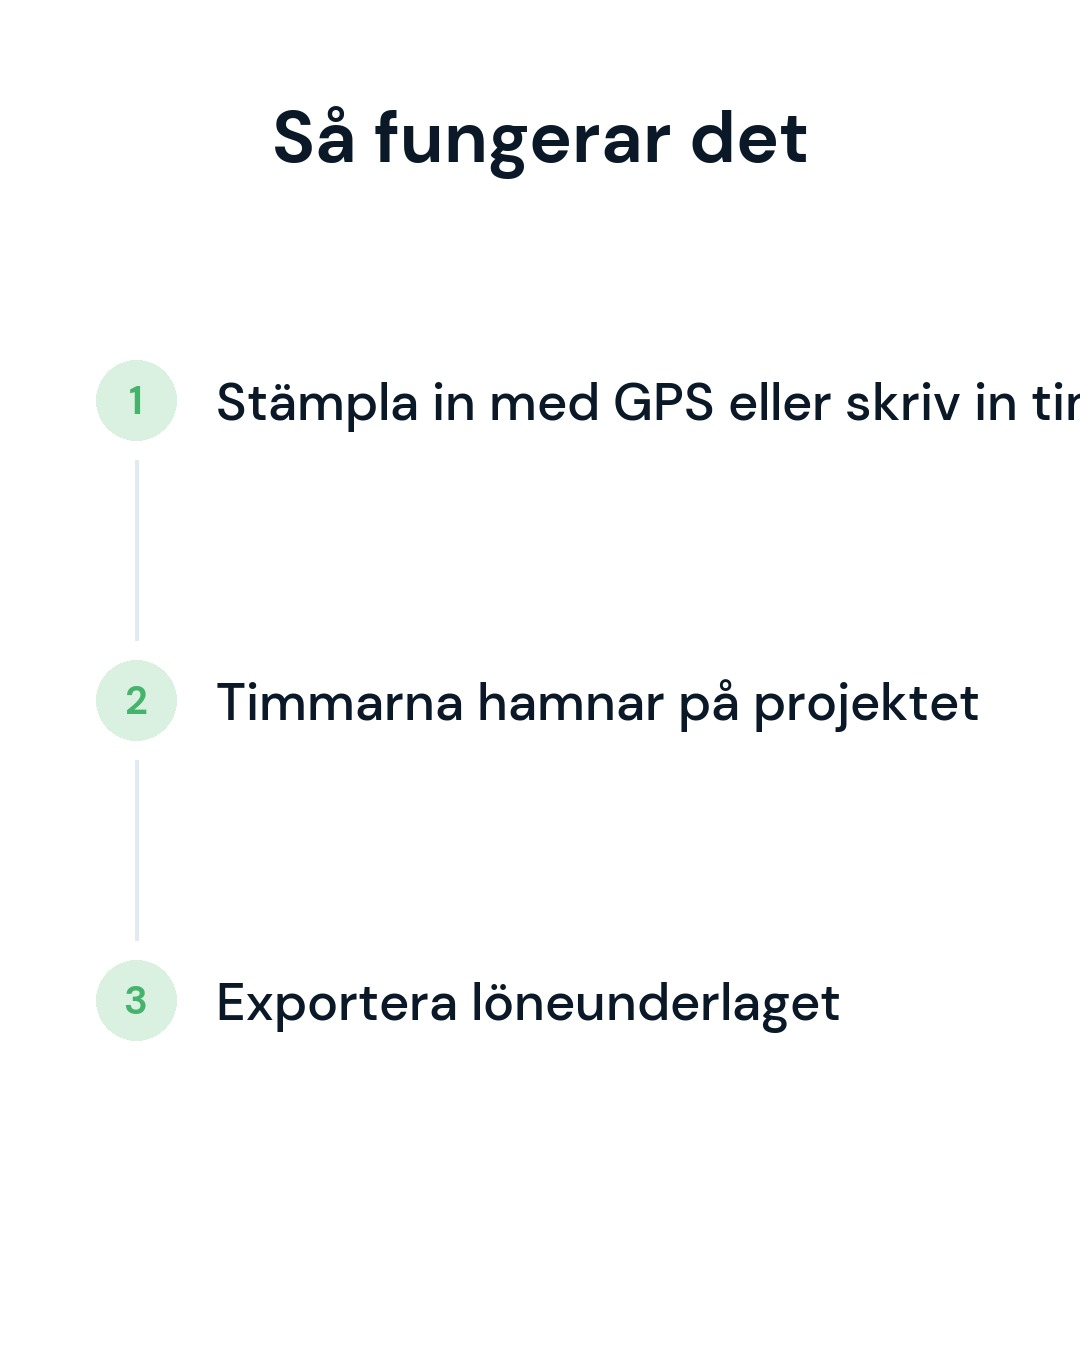
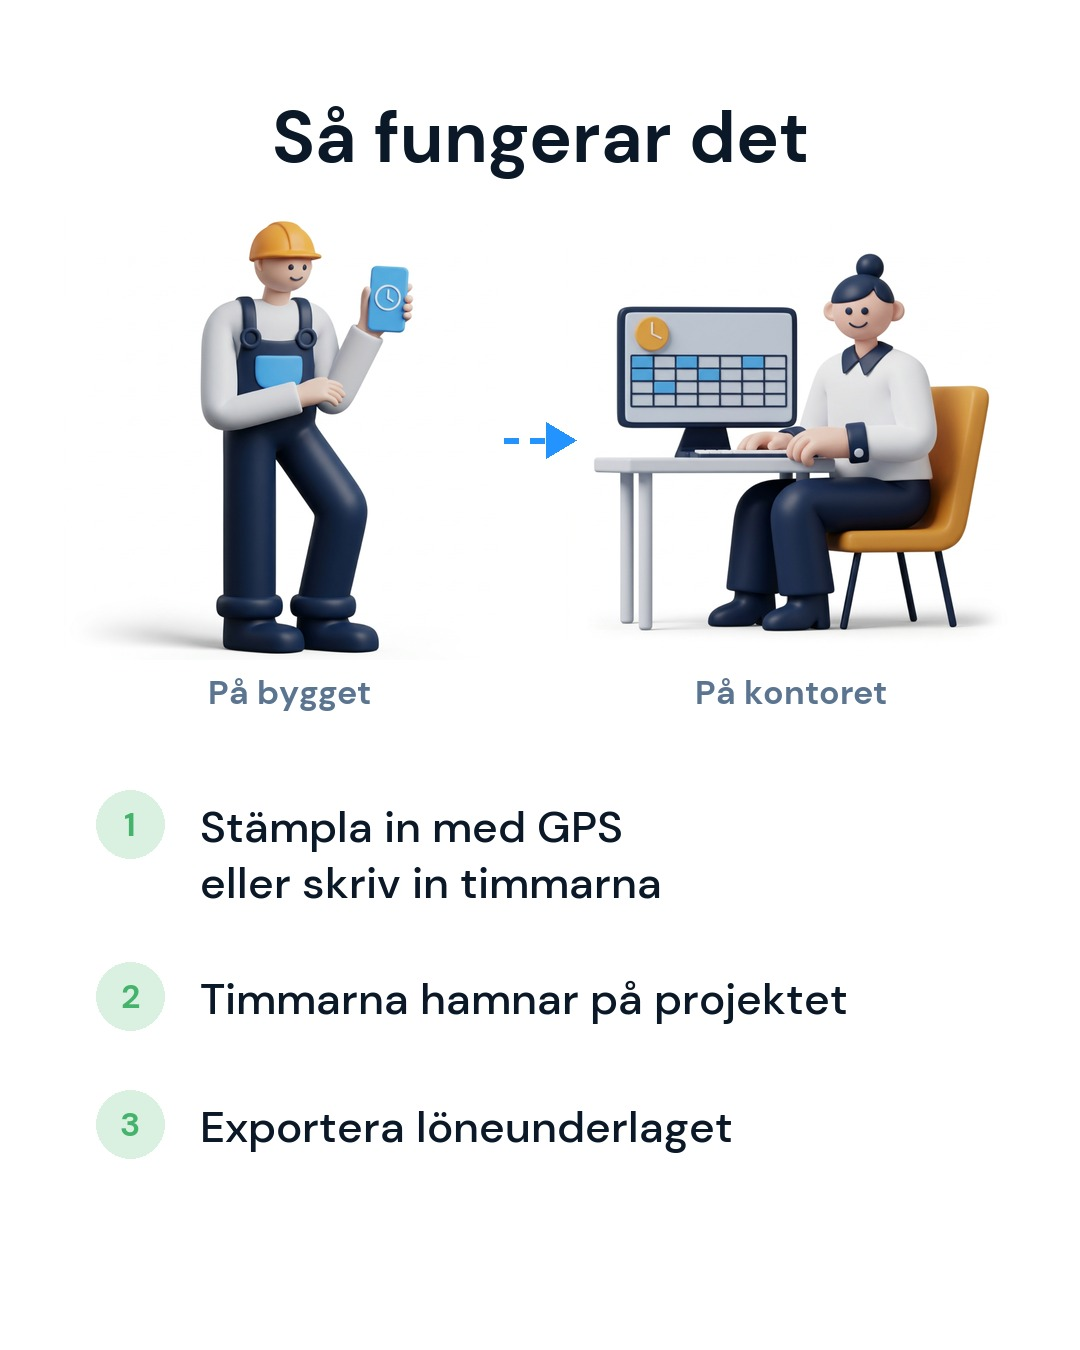
feat(smm): carousel slide 2 shows site → office link (S27)
Claude-Session: https://claude.ai/code/session_015ffAXEftTHPL4eNP1AivUn

diff --git a/design-assets/social/posts/make_3d.py b/design-assets/social/posts/make_3d.py
@@ -142,20 +142,42 @@ def slide_cover(lines, art, size):
     return f, d
 
 
-def slide_steps(items, art):
+FLOW = {  # slide 2: who enters it on site → where it shows up in the office
+    "01-tid": ("tid-2.png", "tid-3.png"),
+}
+
+
+def arrow(d, x0, x1, y):
+    # dashed blue arrow, site → office
+    for x in range(x0, x1 - 30, 26):
+        d.line((x, y, min(x + 14, x1 - 30), y), fill=BLUE, width=6)
+    d.polygon([(x1, y), (x1 - 30, y - 18), (x1 - 30, y + 18)], fill=BLUE)
+
+
+def slide_steps(items, pid):
     f = Image.new("RGBA", (W, H), (255, 255, 255, 255))
     d = ImageDraw.Draw(f)
     t = "Så fungerar det"
     d.text(((W - d.textlength(t, font=font(72))) / 2, TOP), t, font=font(72), fill=NAVY)
-    ft, fn = font(52, "Medium"), font(40, "Bold")
+    site, office = FLOW[pid]
+    side = 450
+    for art, x in ((site, 64), (office, W - 64 - side)):
+        im = Image.open(ART / art).convert("RGBA").resize((side, side), Image.LANCZOS)
+        f.alpha_composite(im, (x, 210))
+    fl = font(34, "Bold")
+    for label, x in (("På bygget", 64), ("På kontoret", W - 64 - side)):
+        d.text((x + (side - d.textlength(label, font=fl)) / 2, 670), label, font=fl, fill=GREY)
+    arrow(d, 64 + side - 10, W - 64 - side + 10, 440)
+    ft, fn = font(44, "Medium"), font(34, "Bold")
+    y = 790
     for i, text in enumerate(items):
-        y = 360 + i * 300
-        d.ellipse((96, y, 176, y + 80), fill=(218, 240, 225))
+        d.ellipse((96, y, 164, y + 68), fill=(218, 240, 225))
         n = str(i + 1)
-        d.text((136 - d.textlength(n, font=fn) / 2, y + 14), n, font=fn, fill=(69, 179, 107))
-        d.text((216, y + 8), text, font=ft, fill=NAVY)
-        if i < 2:
-            d.line((136, y + 100, 136, y + 280), fill=(225, 234, 243), width=4)
+        d.text((130 - d.textlength(n, font=fn) / 2, y + 12), n, font=fn, fill=(69, 179, 107))
+        lines = wrap(d, text, ft, W - 200 - 96)
+        for j, line in enumerate(lines):
+            d.text((200, y + 8 + j * 56), line, font=ft, fill=NAVY)
+        y += max(68, 56 * len(lines)) + 60
     return f, d
 
 
@@ -209,7 +231,7 @@ def carousel(pid):
     _, lines, art, items, badges = p
     size = headline_size()
     out = []
-    slides = (slide_cover(lines, art, size), slide_steps(items, art), slide_shot(SHOTS[pid], "Så ser det ut i appen"))
+    slides = (slide_cover(lines, art, size), slide_steps(items, pid), slide_shot(SHOTS[pid], "Så ser det ut i appen"))
     for i, (f, d) in enumerate(slides):
         if i == 0:  # footer only on the first picture (owner 2026-10-31)
             footer(f, d, badges)

diff --git a/design-assets/social/DESIGN-SYSTEM-SMM.md b/design-assets/social/DESIGN-SYSTEM-SMM.md
@@ -76,7 +76,7 @@
 
 **S26 · 2026-10-31 · Посты о функциях: под 3D — «как это работает», без цены.** Под 3D-картинкой 3 коротких шага (зелёные шарики 1-2-3, как в презентациях функций): что делает человек → что делает система → что получаешь. Человек, который видит функцию впервые, понимает логику. Цены на картинке нет, в тексте поста тоже нет (только «14 dagar gratis, ingen bindningstid»). Шаг — 1–2 строки, перенос сбалансированный, без одиночного слова. Отменяет S17/S18 для постов о функциях; цена остаётся на обложках и закрепе. Код: `posts/make_3d.py` (`steps`, `wrap`). Почему: владелец: «не надо везде цены ставить, расскажи подробнее про функцию, какая логика».
 
-**S27 · 2026-10-31 · Пост о функции = карусель из 3 картинок.** 1) 3D + заголовок-выгода (подпись byggexp.se + значки сторов — только здесь); 2) «Så fungerar det» — 3 шага крупно, зелёные шарики; 3) «Så ser det ut i appen» — настоящий экран в настоящем iPhone из презентаций (`byggexp-admin/docs/presentations/design-system/assets/screens/foto-phone.png`, титановая рамка, кнопки, Dynamic Island), не нарисованная рамка. Заголовки на всех слайдах выше (y 90). Скриншот — свежий из симулятора, во весь экран, без пустого низа, и показывает все поля, которые человек заполняет (часы, övertid, OB, restid, bil, traktamente, фото, kvitton), а не обрезанный кусок. Экран всегда с верха: вкладки и неделя видны, низ может обрезаться (владелец: «пускай верхняя часть видна»). Если у функции два способа — оба: тидрапорт = «GPS eller manuellt» в заголовке и шагах, на 3-й картинке два телефона с подписями «GPS» / «Manuellt». Код: `posts/make_3d.py` (`carousel`, `SHOTS`, скрины в `~/Desktop/SMM/app-shots/`). Почему: владелец: «одним постом 2–3 картинки», «заголовок выше», «телефон реальный», «подпись только на 1-й», «у нас не только GPS — мануальный ввод обязательно», «больше полей, где человек часы вводит».
+**S27 · 2026-10-31 · Пост о функции = карусель из 3 картинок.** 1) 3D + заголовок-выгода (подпись byggexp.se + значки сторов — только здесь); 2) «Så fungerar det» — сверху связь «På bygget → På kontoret»: 3D рабочего с телефоном, синяя пунктирная стрелка, 3D женщины за компьютером (видно: человек ввёл — в компьютере уже есть); ниже 3 шага, длинный шаг переносится, не вылезает за край (`FLOW` в make_3d.py); 3) «Så ser det ut i appen» — настоящий экран в настоящем iPhone из презентаций (`byggexp-admin/docs/presentations/design-system/assets/screens/foto-phone.png`, титановая рамка, кнопки, Dynamic Island), не нарисованная рамка. Заголовки на всех слайдах выше (y 90). Скриншот — свежий из симулятора, во весь экран, без пустого низа, и показывает все поля, которые человек заполняет (часы, övertid, OB, restid, bil, traktamente, фото, kvitton), а не обрезанный кусок. Экран всегда с верха: вкладки и неделя видны, низ может обрезаться (владелец: «пускай верхняя часть видна»). Если у функции два способа — оба: тидрапорт = «GPS eller manuellt» в заголовке и шагах, на 3-й картинке два телефона с подписями «GPS» / «Manuellt». Код: `posts/make_3d.py` (`carousel`, `SHOTS`, скрины в `~/Desktop/SMM/app-shots/`). Почему: владелец: «одним постом 2–3 картинки», «заголовок выше», «телефон реальный», «подпись только на 1-й», «у нас не только GPS — мануальный ввод обязательно», «больше полей, где человек часы вводит».
 
 **S7 · Текст.** Шведский, без кириллицы; только факты из `docs/seo/product-facts-verified.md`; ссылки с UTM.
 
